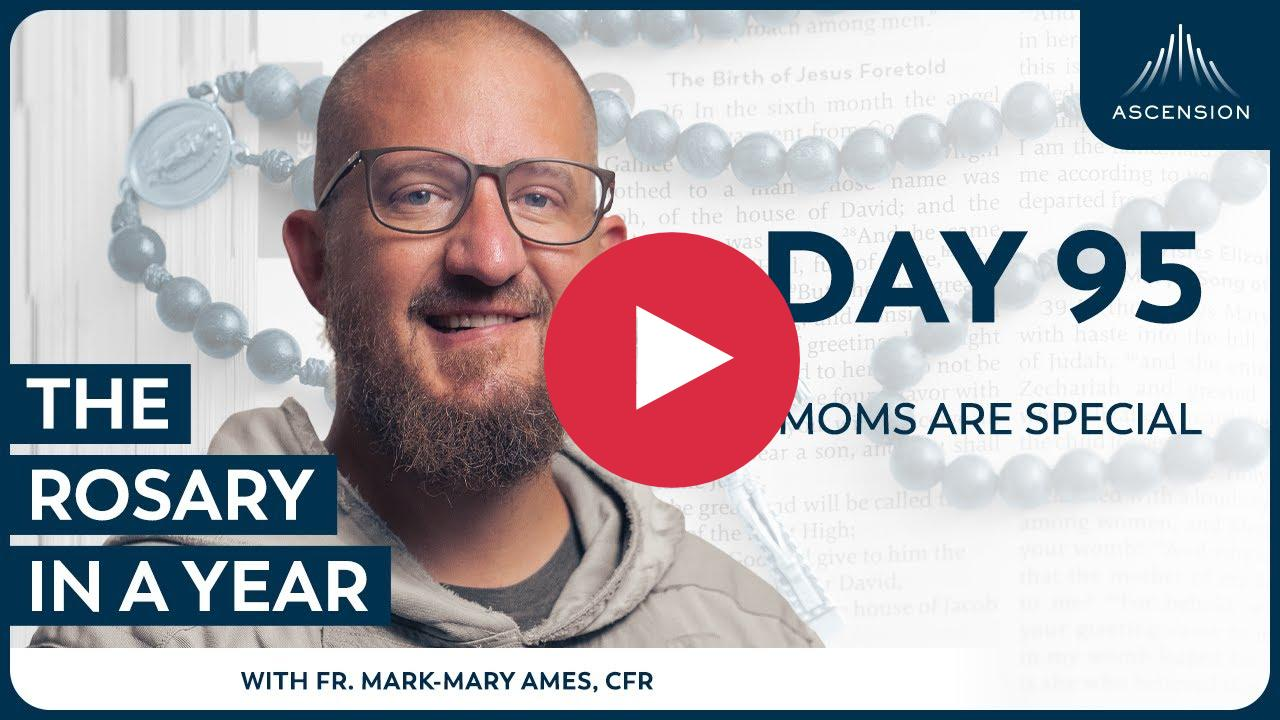
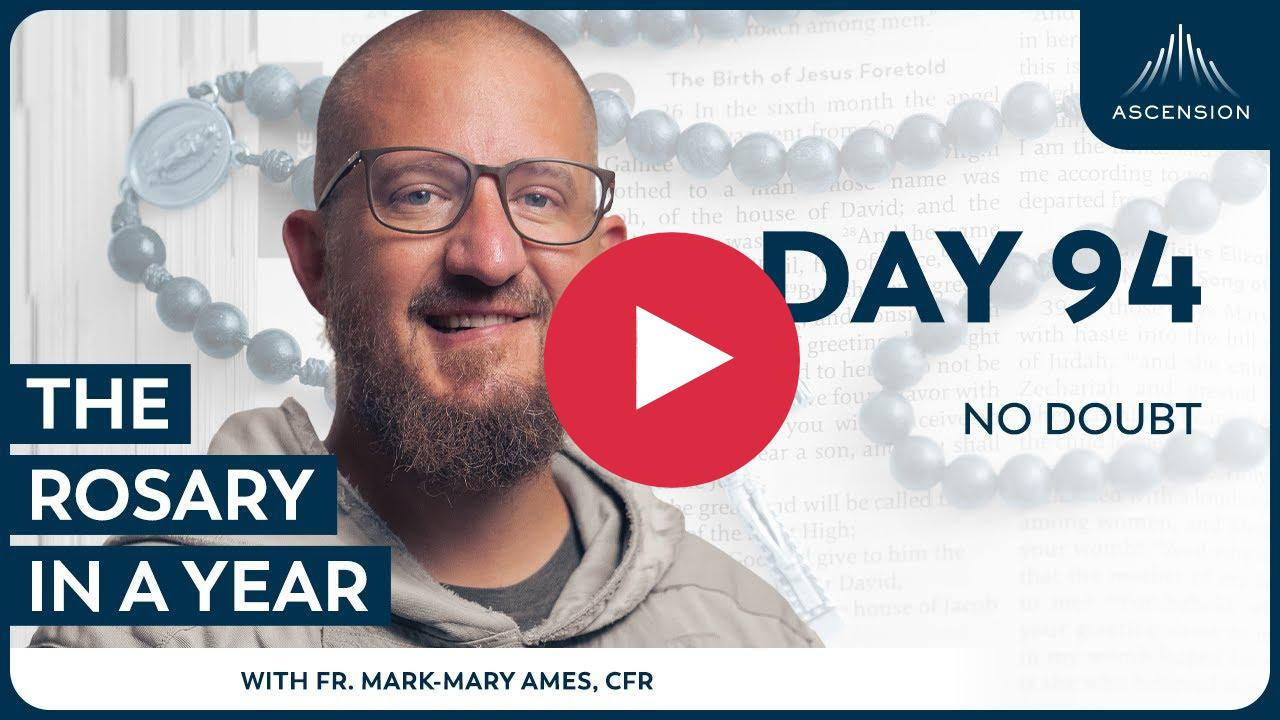
feat: add days 94 and 95 videos

Changed region(s): [[0.5938, 0.3056, 0.9375, 0.4583], [0.5938, 0.55, 0.9375, 0.6111]]

diff --git a/April2025.md b/April2025.md
@@ -7,6 +7,8 @@
 - [April 03,2025](#april-032025)
   - [Look Like You Love Him](#look-like-you-love-him)
 - [April 04,2025](#april-042025)
+  - [No Doubt](#no-doubt)
+- [April 05,2025](#april-052025)
   - [Moms are Special](#moms-are-special)
 
 <!-- tocstop -->
@@ -35,6 +37,12 @@ RIAY April 2025
 
 ## April 04,2025
 
+### No Doubt
+
+[![No Doubt](https://raw.githubusercontent.com/linusjf/RIAY/refs/heads/main/April/jpgs/Day094.jpg)](https://youtu.be/udGTa5JC9Mw "No Doubt")
+
+## April 05,2025
+
 ### Moms are Special
 
-[![Moms are Special](https://raw.githubusercontent.com/linusjf/RIAY/refs/heads/main/April/jpgs/Day094.jpg)](https://youtu.be/XLos3uwj4Js "Moms are Special")
+[![Moms are Special](https://raw.githubusercontent.com/linusjf/RIAY/refs/heads/main/April/jpgs/Day095.jpg)](https://youtu.be/XLos3uwj4Js "Moms are Special")

diff --git a/April/Day094.md b/April/Day094.md
@@ -1,5 +1,5 @@
 ## April 04,2025
 
-### Moms are Special
+### No Doubt
 
-[![Moms are Special](https://raw.githubusercontent.com/linusjf/RIAY/refs/heads/main/April/jpgs/Day094.jpg)](https://youtu.be/XLos3uwj4Js "Moms are Special")
+[![No Doubt](https://raw.githubusercontent.com/linusjf/RIAY/refs/heads/main/April/jpgs/Day094.jpg)](https://youtu.be/udGTa5JC9Mw "No Doubt")

diff --git a/April/Day095.md b/April/Day095.md
@@ -1,0 +1,5 @@
+## April 05,2025
+
+### Moms are Special
+
+[![Moms are Special](https://raw.githubusercontent.com/linusjf/RIAY/refs/heads/main/April/jpgs/Day095.jpg)](https://youtu.be/XLos3uwj4Js "Moms are Special")
